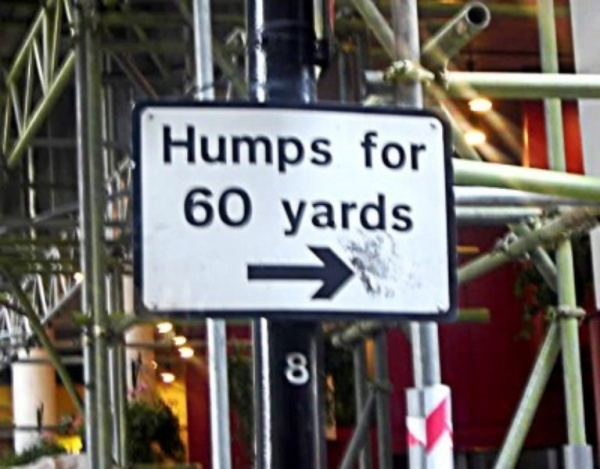
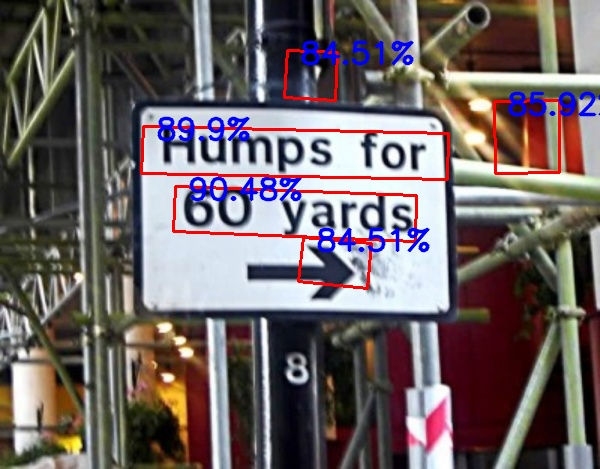
[Update] Update some comments

Changed region(s): [[0.21, 0.2388, 0.75, 0.6269], [0.81, 0.1791, 1.0, 0.3881], [0.45, 0.0597, 0.69, 0.2388]]

diff --git a/ctpn_utils.py b/ctpn_utils.py
@@ -258,7 +258,7 @@ def cal_rpn(imgsize, featuresize, scale, gtboxes):
     # base_anchor: anchor box?
     return [labels, bbox_targets], base_anchor
 
-@torchsnooper.snoop()
+# @torchsnooper.snoop()
 def nms(dets, thresh):
     x1 = dets[:, 0]
     y1 = dets[:, 1]
@@ -371,6 +371,22 @@ class TextProposalGraphBuilder:
                size_similarity(index1, index2) >= TextLineCfg.MIN_SIZE_SIM
 
     def build_graph(self, text_proposals, scores, im_size):
+        """Make text graph
+
+        Parameters
+        ----------
+        text_proposals : np.narray
+            [N_bbox, 4]
+        scores : np.narray
+            [N_bbox, 1]
+        im_size : List
+            [h, w]
+
+        Returns
+        -------
+        Graph()
+            
+        """
         self.text_proposals = text_proposals
         self.scores = scores
         self.im_size = im_size
@@ -384,10 +400,14 @@ class TextProposalGraphBuilder:
         graph = np.zeros((text_proposals.shape[0], text_proposals.shape[0]), np.bool)
 
         for index, box in enumerate(text_proposals):
+            # 沿水平正方向寻找所有overlap_v > 0.7的匹配
             successions = self.get_successions(index)
             if len(successions) == 0:
                 continue
+            # 找匹配中score最大的succession_index
             succession_index = successions[np.argmax(scores[successions])]
+
+            #沿水平负方向寻找score最大的k，如果score_i >= score_k, 则是一个最长连接
             if self.is_succession_node(index, succession_index):
                 # NOTE: a box can have multiple successions(precursors) if multiple successions(precursors)
                 # have equal scores.
@@ -414,7 +434,8 @@ class TextProposalConnectorOriented:
             return Y[0], Y[0]
         p = np.poly1d(np.polyfit(X, Y, 1))
         return p(x1), p(x2)
-
+    
+    # @torchsnooper.snoop()
     def get_text_lines(self, text_proposals, scores, im_size):
         """
         text_proposals:boxes

diff --git a/ctpn_model.py b/ctpn_model.py
@@ -93,7 +93,7 @@ class CTPN_Model(nn.Module):
         layers = list(base_model.features)[:-1] # no classifier
         self.base_layers = nn.Sequential(*layers)  # block5_conv3 output
         self.rpn = BasicConv(512, 512, 3, 1, 1, bn=False)
-        self.brnn = nn.GRU(512,128, bidirectional=True, batch_first=True)
+        self.brnn = nn.GRU(512, 128, bidirectional=True, batch_first=True)
         self.lstm_fc = BasicConv(256, 512, 1, 1, relu=True, bn=False)
         self.rpn_class = BasicConv(512, 10 * 2, 1, 1, relu=False, bn=False)
         self.rpn_regress = BasicConv(512, 10 * 2, 1, 1, relu=False, bn=False)
@@ -103,13 +103,14 @@ class CTPN_Model(nn.Module):
         # rpn
         x = self.rpn(x)
 
-        x1 = x.permute(0, 2, 3, 1).contiguous()  # channels last
+        x1 = x.permute(0, 2, 3, 1).contiguous()  # channels last, 作为rnn的时间步的特征维度
         b = x1.size()  # batch_size, h, w, c
-        x1 = x1.view(b[0] * b[1], b[2], b[3]) # for rnn
+        x1 = x1.view(b[0] * b[1], b[2], b[3]) # for rnn [N, T, C]
 
         x2, _ = self.brnn(x1)
 
         xsz = x.size()
+        # shape different from here
         x3 = x2.view(xsz[0], xsz[2], xsz[3], 256)  # torch.Size([4, 20, 20, 256])
 
         x3 = x3.permute(0,3,1,2).contiguous()  # channels first
@@ -121,8 +122,6 @@ class CTPN_Model(nn.Module):
 
         cls = cls.permute(0,2,3,1).contiguous()
         regr = regr.permute(0,2,3,1).contiguous()
-
         cls = cls.view(cls.size(0), cls.size(1)*cls.size(2)*10, 2)
         regr = regr.view(regr.size(0), regr.size(1)*regr.size(2)*10, 2)
-
         return cls, regr

diff --git a/ctpn_predict.py b/ctpn_predict.py
@@ -23,8 +23,8 @@ device = torch.device('cuda:0' if torch.cuda.is_available() else 'cpu')
 img_path = '/HOME/scz0831/run/prune/dataset/VOCdevkit/VOC2007/JPEGImages/img_1001.jpg'
 
 model = CTPN_Model()
-# weights = os.path.join(config.checkpoints_dir, 'trained weights file.pth.tar')
-# model.load_state_dict(torch.load(weights, map_location=device)['model_state_dict'])
+weights = os.path.join(config.checkpoints_dir, 'ctpn_ep02_0.3690_0.1696_0.5385.pth.tar')
+model.load_state_dict(torch.load(weights, map_location=device)['model_state_dict'])
 model.to(device)
 model.eval()
 

diff --git a/ctpn_train.py b/ctpn_train.py
@@ -55,6 +55,7 @@ if __name__ == '__main__':
         pretrained = False
 
     dataset = VOCDataset(args['image_dir'], args['labels_dir'])
+    # 因为图片长宽不一，并且没有做Resize，所以batch_size暂时是1
     dataloader = DataLoader(dataset, batch_size=1, shuffle=True, num_workers=args['num_workers'])
     model = CTPN_Model()
     model.to(device)
